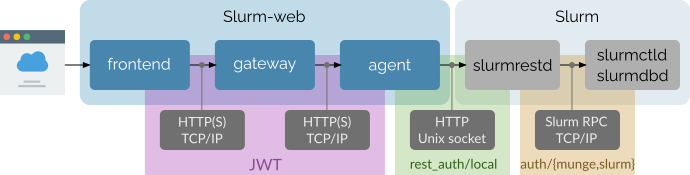
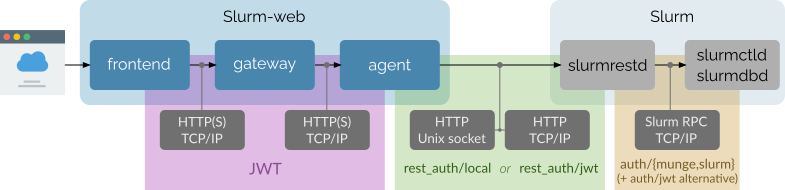
docs: mention slurmrestd TCP/IP and JWT in arch
Mention support of JWT authentication and TCP/IP sockets between agent
and Slurm slurmrestd in Protocols section of Architecture page.

diff --git a/CHANGELOG.md b/CHANGELOG.md
@@ -32,6 +32,8 @@ and this project adheres to [Semantic Versioning](https://semver.org/spec/v2.0.0
   - Add manpage for `slurm-web-connect-check` utility.
   - Add _Slurmrestd Access_ page with guides to setup Slurm and agent in all
     supported configurations.
+  - Mention support of JWT authentication and TCP/IP sockets between agent and
+    Slurm `slurmrestd` in _Protocols_ section of Architecture page.
 
 ### Changed
 - conf: Deprecate `[slurmrestd]` > `socket` parameter in favor of `uri` designed
